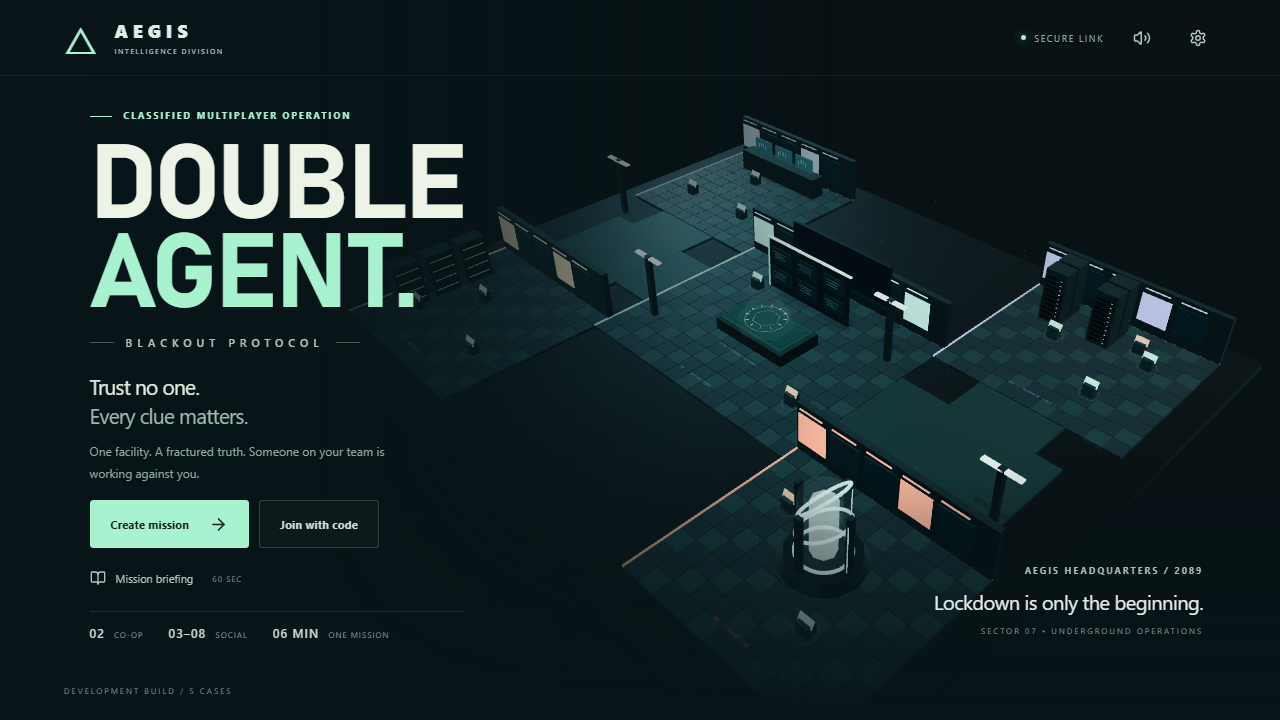
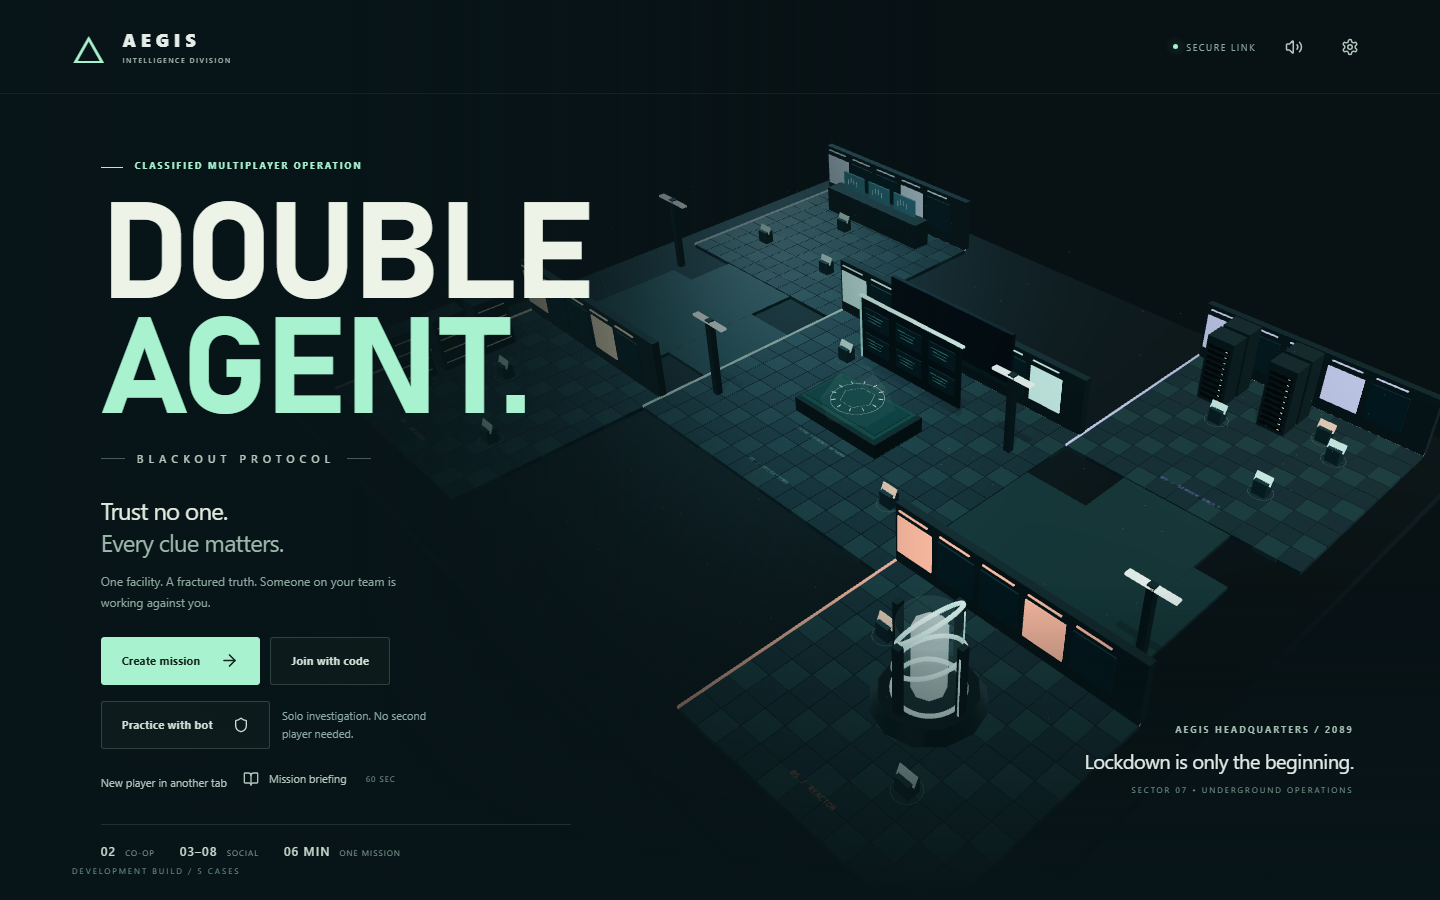
docs: record verified reviewer flows and refresh live game screenshots

diff --git a/TEST_REPORT.md b/TEST_REPORT.md
@@ -1,4 +1,51 @@
-# B2 verification report
+# Verification report
+
+Updated October 17, 2026.
+
+**Play:** https://double-agent-blackout-protocol-radhe12.vercel.app/
+
+## Reviewer access update
+
+**Evidence:** [successful GitHub Actions run 39006096041](https://github.com/IntelliCoder-AI/double-agent-blackout-protocol-multi-player-game/actions/runs/39006096041), job **117318882931**, completed October 17 at approximately **05:39 UTC**. Verification head and deployed application source: **4ebbeb97c918c7f20828ae47d32c74af786f19de**. Later documentation and screenshot updates do not change that application code.
+
+| Check | Actual result and scope |
+| --- | --- |
+| Rules, five-case validity, privacy, repairs, sabotage, navigation, persistence and practice | **41 passed, 0 failed, 0 skipped** in Linux CI; includes real PostgreSQL 16 contention |
+| Independent HTTP/WebSocket guests | **2 passed, 0 failed, 0 skipped**; scoped HttpOnly cookies, independent seats, reconnect, rooms, private roles, receipts and rematch |
+| Solo public practice | Passed: one human and a labeled ATLAS bot; actual bot walking, recovery, authentication, publication, supported wall comparisons, evidence-backed vote, agents' victory and rematch |
+| Evidence Wall requirement | Passed: early practice discussion disabled until both supported comparisons; bot ballot derives from authenticated published groups, not the hidden culprit |
+| One-browser multiplayer | Passed: New player opens a second seat in the same browser context without replacing the first; reload preserves the second identity |
+| Callsign editing | Passed: lobby rename synchronizes to the other player; unit checks reject duplicate names and mid-round changes |
+| Empty lobby invites | Passed publicly: both guests leave, original code remains joinable, next entrant becomes host. Thirty-minute expiration is verified with simulated engine time |
+| Idle connection stability | Passed: both lobby guests remained connected and the monitored header had no reconnect transitions during a **46-second** idle interval |
+| Social mode and security | Passed: three independent Chromium guests, one private traitor; unauthorized sabotage, remote interaction, invalid movement and stale-round actions rejected |
+| Touch, host migration and reconnect | Passed in Chromium mobile emulation: touch changes authoritative position, no horizontal overflow; closed host transfers control; returning guest retains identity and role |
+| Full public human co-op round | Passed: two independent guest contexts, real walking, four timed recoveries and authentications, uplink repair, four published sources, two supported comparisons, reconnect, ballots, agents' win and same-code rematch |
+| Browser errors | All three public verification scripts completed with **zero JavaScript page errors** |
+| Build and readiness | Passed: TypeScript, Vite, server bundles and public database readiness |
+| Abandoned practice cleanup | Passed: bot-only lobbies do not consume human capacity or block expiration |
+| Fresh visual captures | Actual deployed desktop menu, narrow-screen menu, and live practice Evidence Wall; zero page errors in these captures |
+
+The full co-op run recorded **1,031 synchronization responses**, median **262.528 ms**, p95 **292.863 ms**, from one CI location. These are response timings for that run, not a global latency guarantee or a rendering FPS measurement.
+
+### Implemented behavior
+
+- Solo practice is separate from human multiplayer. The companion follows normal server-validated routes and proximity/channel rules, handles only its assigned evidence, and votes from the authenticated shared wall. It abstains without sufficient published evidence. Practice awards no XP.
+- The human still investigates, authenticates and publishes records. Both supported connections unlock an optional early practice discussion. Human multiplayer minimums and outcomes remain unchanged.
+- New player uses a separate public cookie namespace and its own secret HttpOnly credential. A namespace alone cannot authenticate. Existing default guest cookies remain supported.
+- Returning players can edit their own callsign in a lobby. Names stay fixed during live rounds.
+- Empty multiplayer lobbies survive for thirty idle minutes after the final explicit departure. Private practice rooms are removed on exit. Bot-only abandoned rooms expire.
+- Hosted requests force a persisted heartbeat at least every five seconds while requests succeed. Idle lobby/debrief presence has a 45-second grace; active rounds retain the 15-second threshold and existing quorum rules. A single brief request failure does not immediately flip an established connection offline; sustained failures do.
+
+### Earlier attempts and remaining limits
+
+An initial reviewer run failed its final error assertion because test setup accessed localStorage in an opaque popup document. Fixture setup now runs only on the game origin. A separate attempt observed an initial-sync timeout in the third browser before role assignment. Vercel reported no runtime errors for that interval; later read-only database inspection found no stalled query and a roughly 21 KB world state. These observations do not establish the timeout's cause. The final run above passed all checks; longer weak-network and cold-start soaks remain necessary.
+
+All five practice cases are verified through command-driven engine simulations. The public browser walkthroughs exercise Case 01; they do not establish a complete browser walkthrough of every case. Physical Android/iPhone testing, extended 5–8-player social sessions, human onboarding/enjoyment/balance sessions, accessibility refinement, and sustained real-device performance measurements remain release gates. The hosted capacity is five active rooms. This remains a playable development release.
+
+---
+
+## Earlier B2 verification
 
 Updated October 17, 2026. The successful public browser run completed October 16 at 17:08 UTC.
 
@@ -6,7 +53,7 @@ Updated October 17, 2026. The successful public browser run completed October 16
 
 **Evidence:** [GitHub Actions run 38936066317](https://github.com/IntelliCoder-AI/double-agent-blackout-protocol-multi-player-game/actions/runs/38936066317), job 117091758836, conclusion **success**. Tested source: verification head 357da28b5fc472c8da8a676e3456161fe1e5aeea; deployed game commit 973ee5173586af98c8e3dd6b90e67900b731454a. PR #1 merges that verified workflow and test source into main.
 
-## Verified results
+### Verified results
 
 | Check | Actual result and scope |
 | --- | --- |
@@ -29,7 +76,7 @@ These were independent Chromium browser contexts with separate guest cookies con
 
 All five cases also passed randomized solvability and command-driven solution/ballot/rematch checks. Only the first case has the complete public-browser evidence-to-rematch verification described above. Live social resolution, larger rosters and all-case browser runs remain broader verification work.
 
-## Fixes established through testing
+### Fixes established through testing
 
 - Handled pre-parsed request bodies before reading an already-consumed stream; preserved byte limits and split UTF-8 decoding.
 - Reduced world-row contention for transient snapshots/input while keeping sensitive mutations and stop packets serialized.
@@ -40,7 +87,7 @@ All five cases also passed randomized solvability and command-driven solution/ba
 - Batched static environment surfaces while preserving interactive targets and textured labels; added geometry/cleanup regression coverage.
 - Corrected a shared module's ESM import extension after readiness caught a function startup failure. That failed deployment and earlier failed test runs are not counted as passes.
 
-## Performance and limits
+### Performance and limits
 
 The successful two-guest hosted run sampled 1,040 synchronization responses: median **267.237 ms**, p95 **321.592 ms** from that CI location. This is one test-machine observation, not a global latency guarantee or load test.
 
@@ -50,7 +97,7 @@ An earlier offline Windows headless Chromium/SwiftShader menu-renderer diagnosti
 
 The hosted backend serializes a shared world row and limits initial capacity to five active rooms. It is suitable for this early judging build; sustained multi-room throughput and free-tier quota consumption are not established. The separate dedicated Node/WebSocket transport remains available in source.
 
-## Remaining release gates
+### Remaining release gates
 
 1. Real Android/Chrome and iPhone/Safari sessions: touch every primary action, portrait/landscape, lock/unlock, network changes, loading, frame time and sustained heat.
 2. Human onboarding, fairness and enjoyment tests at 3, 5 and 8 players, including meaningful forgery, jam, repair delay, exfiltration and shared-recovery counterplay. No human win-rate or comprehension data has been collected.

diff --git a/README.md b/README.md
@@ -16,15 +16,15 @@ No installation, account registration, or email is required.
 
 | Mode | Players | Objective |
 | --- | --- | --- |
-| Solo practice | 1 human + ATLAS bot | Learn the complete investigation, wall, voting, and rematch loop. |
-| Cooperative investigation | 2 | Work together to expose an NPC saboteur. Recommended for a first review. |
+| Solo practice | 1 human + ATLAS bot | Recommended for a judge testing alone. Complete the investigation, wall, voting, and rematch loop. |
+| Cooperative investigation | 2 | Work together to expose an NPC saboteur. |
 | Social deduction | 3–8 | Investigate alongside one hidden human traitor. |
 
 A complete mission takes approximately six minutes.
 
-1. Open the **[public game](https://double-agent-blackout-protocol-radhe12.vercel.app/)** and choose **Create mission**.
-2. Select a case and mode. Co-op is selected initially.
-3. Share the six-character room code or invitation link. Other players choose **Join with code**.
+1. Open the **[public game](https://double-agent-blackout-protocol-radhe12.vercel.app/)**. Choose **Practice with bot** when alone, or **Create mission** for human multiplayer.
+2. Enter a callsign. For multiplayer, select a mode; co-op is selected initially. Practice adds ATLAS automatically.
+3. For multiplayer, share the six-character room code or invitation link. Other players choose **Join with code**.
 4. Each player marks ready, then the host starts the mission.
 5. Read your private role, follow the investigation prompts, and compare findings with your team.
 6. After the result, use the rematch control to play again in the same room.
@@ -50,6 +50,10 @@ Return to Operations to publish your findings. Authenticate records at a verific
 Connections require the correct records, relationship, and supporting value. Arbitrary links are rejected. Every non-abstaining ballot must cite a source published on this wall, making evidence sharing part of the actual decision process.
 
 Look for the suspect present in **both authenticated custody groups**. Discuss inconsistencies before accusing anyone.
+
+![Living Evidence Wall during a real practice session, showing three authenticated records published by ATLAS](docs/images/practice-evidence-wall.png)
+
+*Live practice session: ATLAS has recovered, authenticated, and published three records. The human investigator must contribute the remaining evidence and support the connections.*
 
 ### Repair systems and counter sabotage
 
@@ -103,9 +107,9 @@ Roles, clue assignments, and suspect groups vary between rounds. The cases share
 
 This is a **publicly playable development release**, prepared for the Handshake AI Skills Studio Multiplayer Game Challenge.
 
-**Implemented:** real room creation and joining, private roles and clues, synchronized movement, five cases, the shared Evidence Wall, repairs, sabotage, voting, results, reconnects, host migration, cumulative scores, and same-room rematches. The headquarters uses original procedural 3D geometry and synthesized audio.
+**Implemented:** solo practice with a labeled server bot, separate player tabs, editable lobby callsigns, retained empty invites, real room creation and joining, private roles and clues, synchronized movement, five cases, the shared Evidence Wall, repairs, sabotage, voting, results, reconnects, host migration, cumulative scores, and same-room rematches. The headquarters uses original procedural 3D geometry and synthesized audio.
 
-**Verified:** the recorded [successful CI run](https://github.com/IntelliCoder-AI/double-agent-blackout-protocol-multi-player-game/actions/runs/38936066317) passed 35 automated tests and the production build. Independent browser contexts completed a public co-op round through evidence recovery, authentication, wall comparisons, voting, victory, and rematch with zero JavaScript page errors. Additional browser checks covered private-state protections, rejected invalid actions, reconnects, host migration, and mobile-emulated touch movement.
+**Verified:** the [successful reviewer-access CI run](https://github.com/IntelliCoder-AI/double-agent-blackout-protocol-multi-player-game/actions/runs/39006096041) passed 41 rules/database tests, two real HTTP/WebSocket transport tests, and the production build. Public browser scripts completed a solo practice round, two independent seats in one browser, renaming, empty-room rejoin, idle stability, social-role security, touch emulation, host migration, reconnection, and a full two-human co-op round through victory and same-room rematch. All three scripts reported zero JavaScript page errors. See the testing report for scope, earlier attempts, and remaining limits.
 
 **Remaining release gates:** physical Android/iPhone testing, human balance and onboarding sessions, broader social-mode and weak-network testing, walkthroughs of every case, and final visual/performance polish. Mobile emulation does not establish real-phone performance. The current social mode uses one traitor; advanced two-traitor play is deferred.
 
